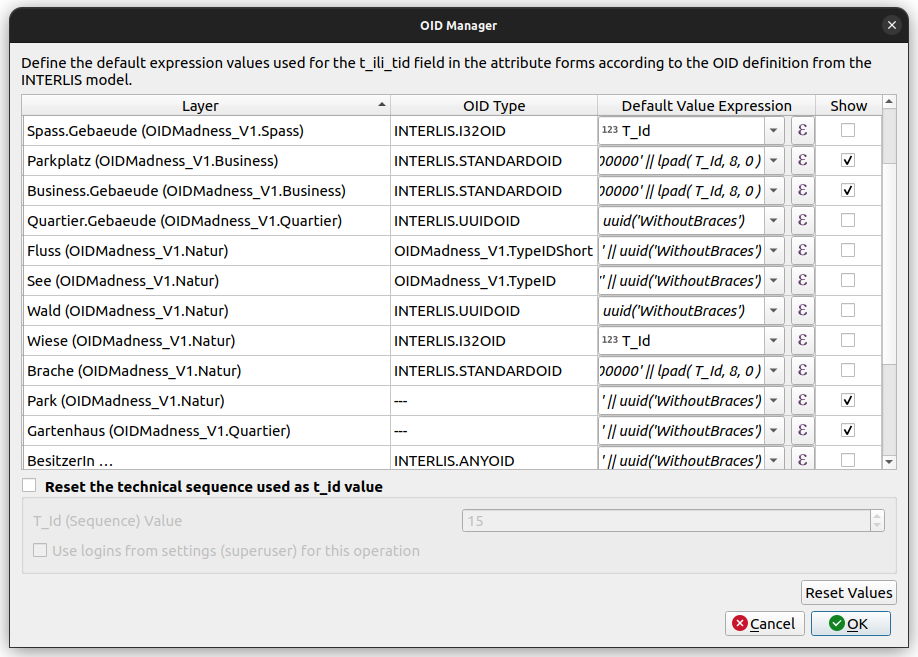
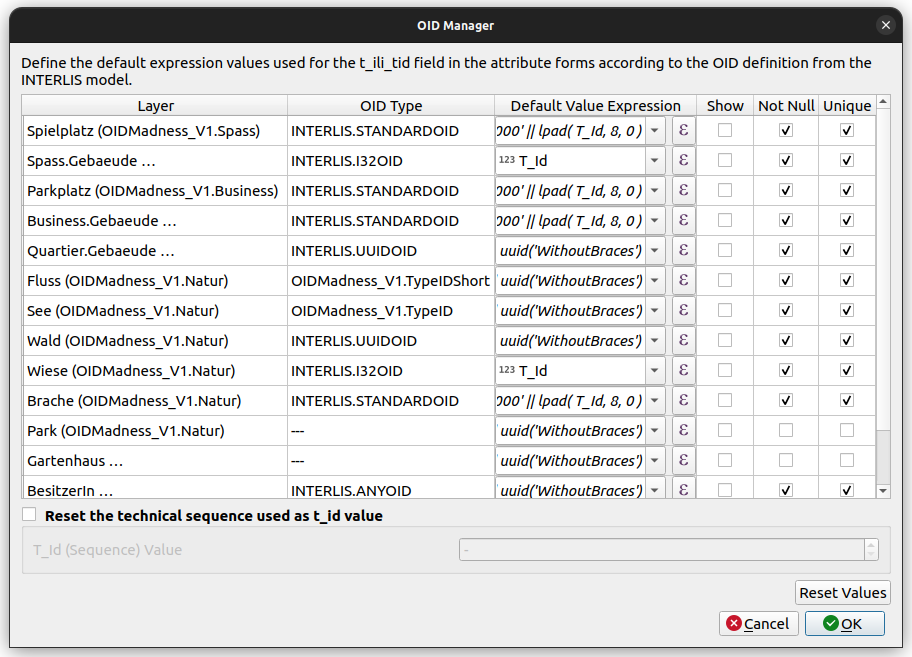
oid manager

diff --git a/docs/docs/user_guide/import_workflow.md b/docs/docs/user_guide/import_workflow.md
@@ -207,4 +207,6 @@ Here you can use the QGIS Expression Dialog to edit the default value expression
 
 If you need a counter in the expressions, you can use the `t_id` field, that has a schema-wide sequence counting up. This sequence can be reset as well by the user, but be careful not to set it lower than already existing `t_id`s in your project.
 
+In the database, the `t_ili_tid` is neither unique nor mandatory. This can be useful in case you first want to create your features and then generate the `t_ili_tid`, but normally you want to have these constraints. Otherwise you will encounter issues when splitting or duplicating features.
+
 This settings can be made on an existing QGIS Project as well. Find the [OID Manager](../../background_info/oid_tid_generator/#tid_(oid)_manager) via the *Database > Model Baker* menu.
